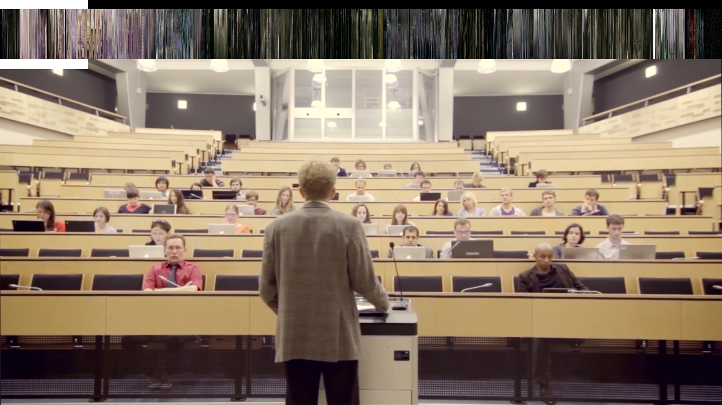
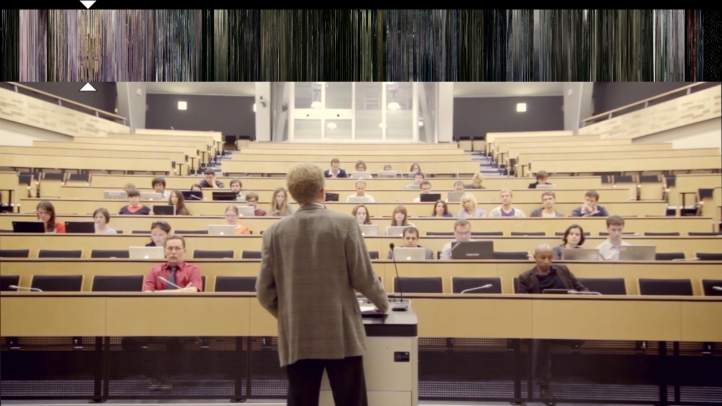
Update mpv screenshot

diff --git a/README.md b/README.md
@@ -35,11 +35,11 @@ Basic usage: `nordlicht video.mkv -w 1000 -h 150 -o barcode.png` converts *video
 
 ### mpv
 
-For very recent versions of [mpv](http://mpv.io/), there is an experimental [lua plugin](/utils/mpv-nordlicht.lua). Simply put it in `~/.mpv/lua/` (or symlink it there!) and mpv should display a live-updating barcode of the current video file. You can turn it on and off by pressing `n`. You'll need a version of mpv after commit `d706f81` (>= v0.3.6) and ImageMagick!
-
-For versions >= 0.2.0, there is an older script called [mpv-nordlicht](/utils/mpv-nordlicht). Put it in your `PATH` and use it instead of `mpv`. It doesn't support multiple files, and you cannot hide the barcode. This is how it looks like (for [Decay](http://www.decayfilm.com/)):
+For very recent versions of [mpv](http://mpv.io/), there is an experimental [lua plugin](/utils/mpv-nordlicht.lua). Simply put it in `~/.mpv/lua/` (or symlink it there!) and mpv should display a live-updating barcode of the current video file. You can turn it on and off by pressing `n`. You'll need a version of mpv after commit `d706f81` (>= v0.3.6) and ImageMagick! This is how it looks like (for [Decay](http://www.decayfilm.com/)):
 
 ![](/examples/mpv-integration.png)
+
+For versions >= 0.2.0, there is an older script called [mpv-nordlicht](/utils/mpv-nordlicht). Put it in your `PATH` and use it instead of `mpv`. It doesn't support multiple files, and you cannot hide the barcode. 
 
 ## License: GPLv2+
 
